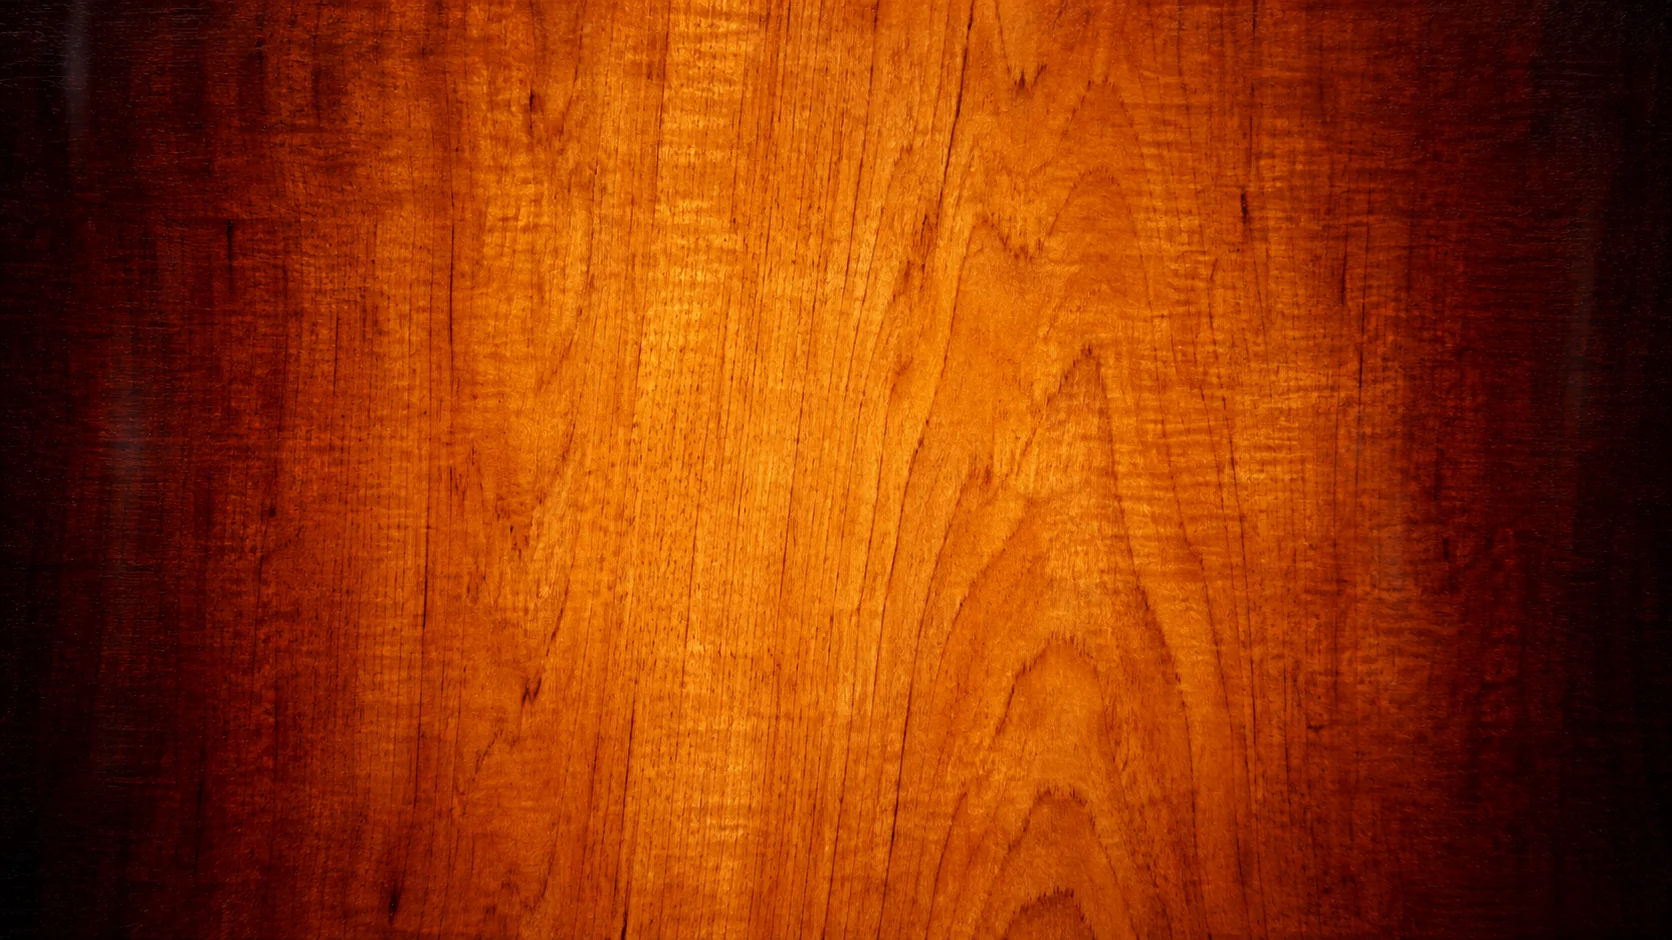
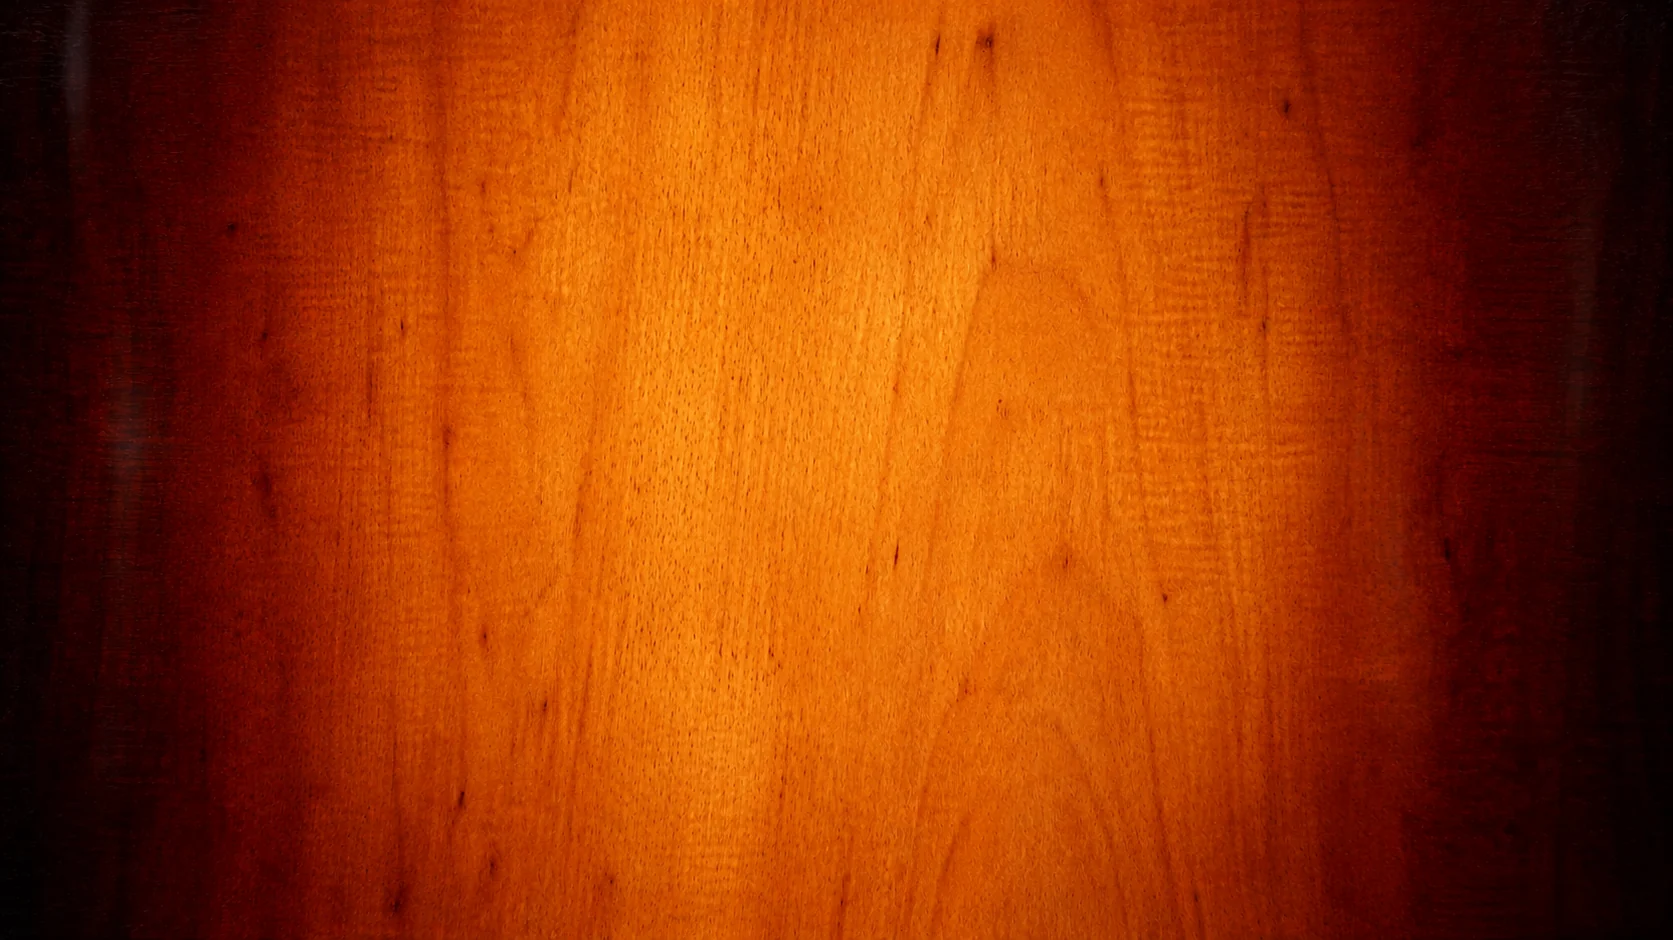
Refine sunburst image with fine alder grain

Changed region(s): [[0.1244, 0.0, 0.8708, 1.0], [0.7464, 0.7713, 0.8086, 0.833], [0.1244, 0.5553, 0.1555, 0.5862]]

diff --git a/app/src/ygc/static/themes.css b/app/src/ygc/static/themes.css
@@ -15,7 +15,7 @@
 :root[data-theme="sunburst_3ply"] {
   color-scheme: light;
   --bg: #130e0b;
-  --page-image: url('/assets/sunburst-wood.webp'), linear-gradient(90deg, #28150e 0%, #673015 9%, #a55220 19%, #b9682c 25%, #b9682c 75%, #a55220 81%, #673015 91%, #28150e 100%);
+  --page-image: url('/assets/sunburst-wood.webp?v=2'), linear-gradient(90deg, #28150e 0%, #673015 9%, #a55220 19%, #b9682c 25%, #b9682c 75%, #a55220 81%, #673015 91%, #28150e 100%);
   --panel: #fffaf0;
   --surface: #f4ead5;
   --input: #fffcf5;
